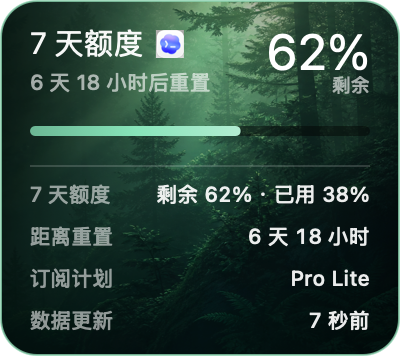
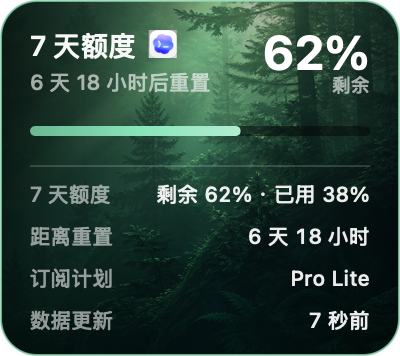
refine: reduce and emphasize primary metrics

Changed region(s): [[0.06, 0.0618, 0.48, 0.1854], [0.66, 0.0927, 0.93, 0.2163]]

diff --git a/Sources/QuotaGrove/QuotaCardView.swift b/Sources/QuotaGrove/QuotaCardView.swift
@@ -414,7 +414,7 @@ final class QuotaCardView: NSView {
         let leftInset: CGFloat = 15
         let contentRight: CGFloat = 185
         let title = snapshot?.windowTitle ?? "7 天额度"
-        let titleFont = NSFont.systemFont(ofSize: 15, weight: .regular)
+        let titleFont = NSFont.systemFont(ofSize: 14, weight: .semibold)
         let titleColor = NSColor.white.withAlphaComponent(0.96)
         drawText(title, at: NSPoint(x: leftInset, y: top - 31), font: titleFont, color: titleColor)
 
@@ -423,7 +423,7 @@ final class QuotaCardView: NSView {
         drawCodexIcon(at: NSPoint(x: markX, y: top - 29), size: 14)
 
         let percent = snapshot.map { "\($0.roundedRemaining)%" } ?? "--%"
-        let percentFont = NSFont.monospacedDigitSystemFont(ofSize: 25, weight: .regular)
+        let percentFont = NSFont.monospacedDigitSystemFont(ofSize: 24, weight: .bold)
         let percentWidth = (percent as NSString).size(withAttributes: [.font: percentFont]).width
         let staleBadgeX = markX + 19
         if isStale, staleBadgeX + 24 <= contentRight - percentWidth - 5 {
